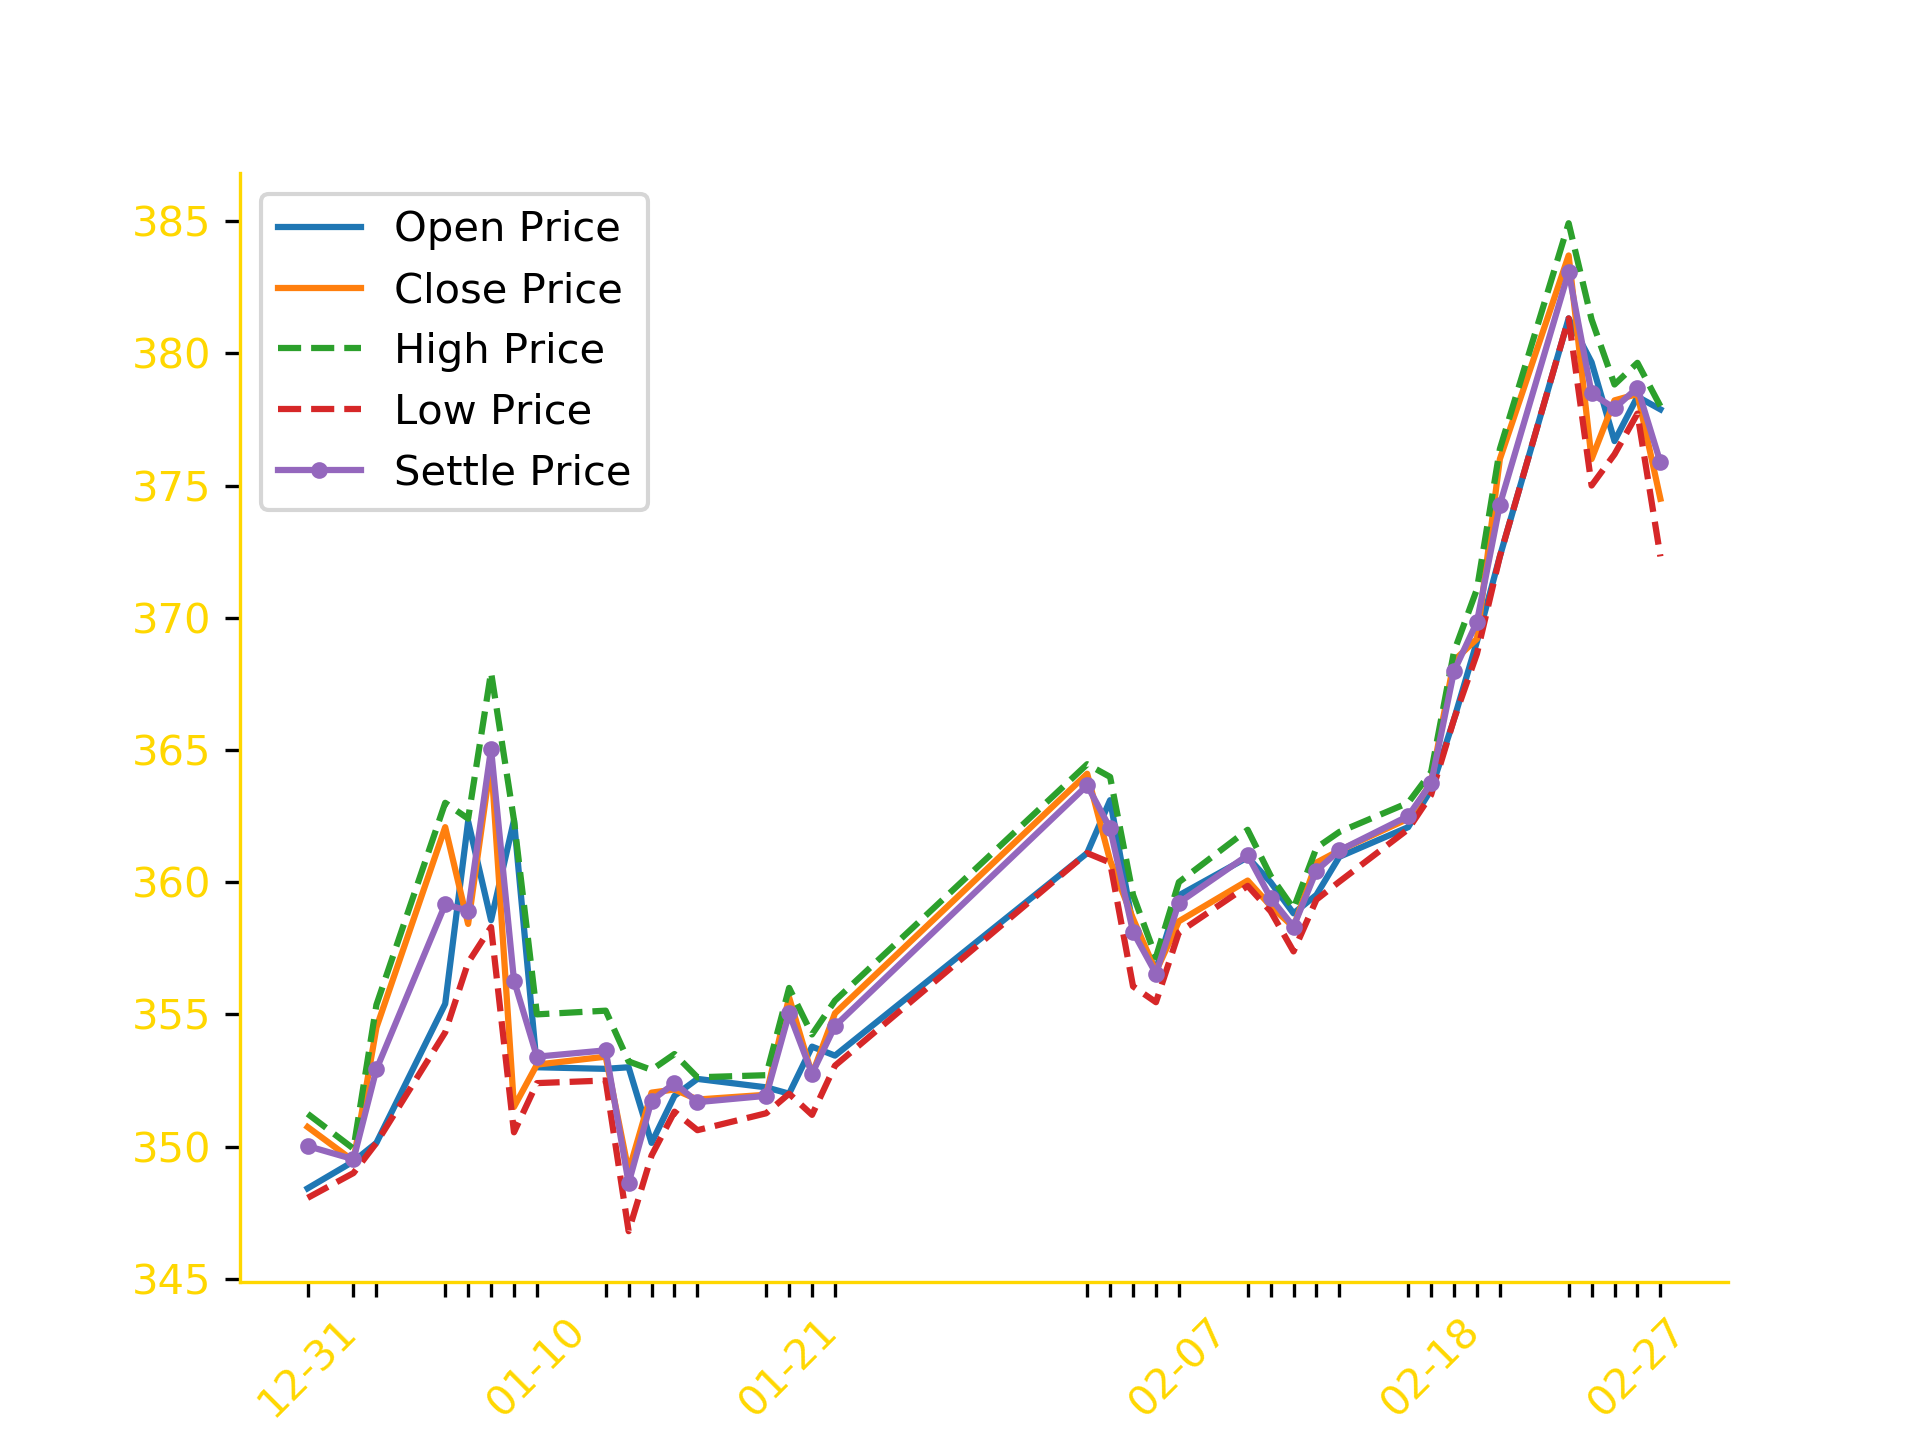
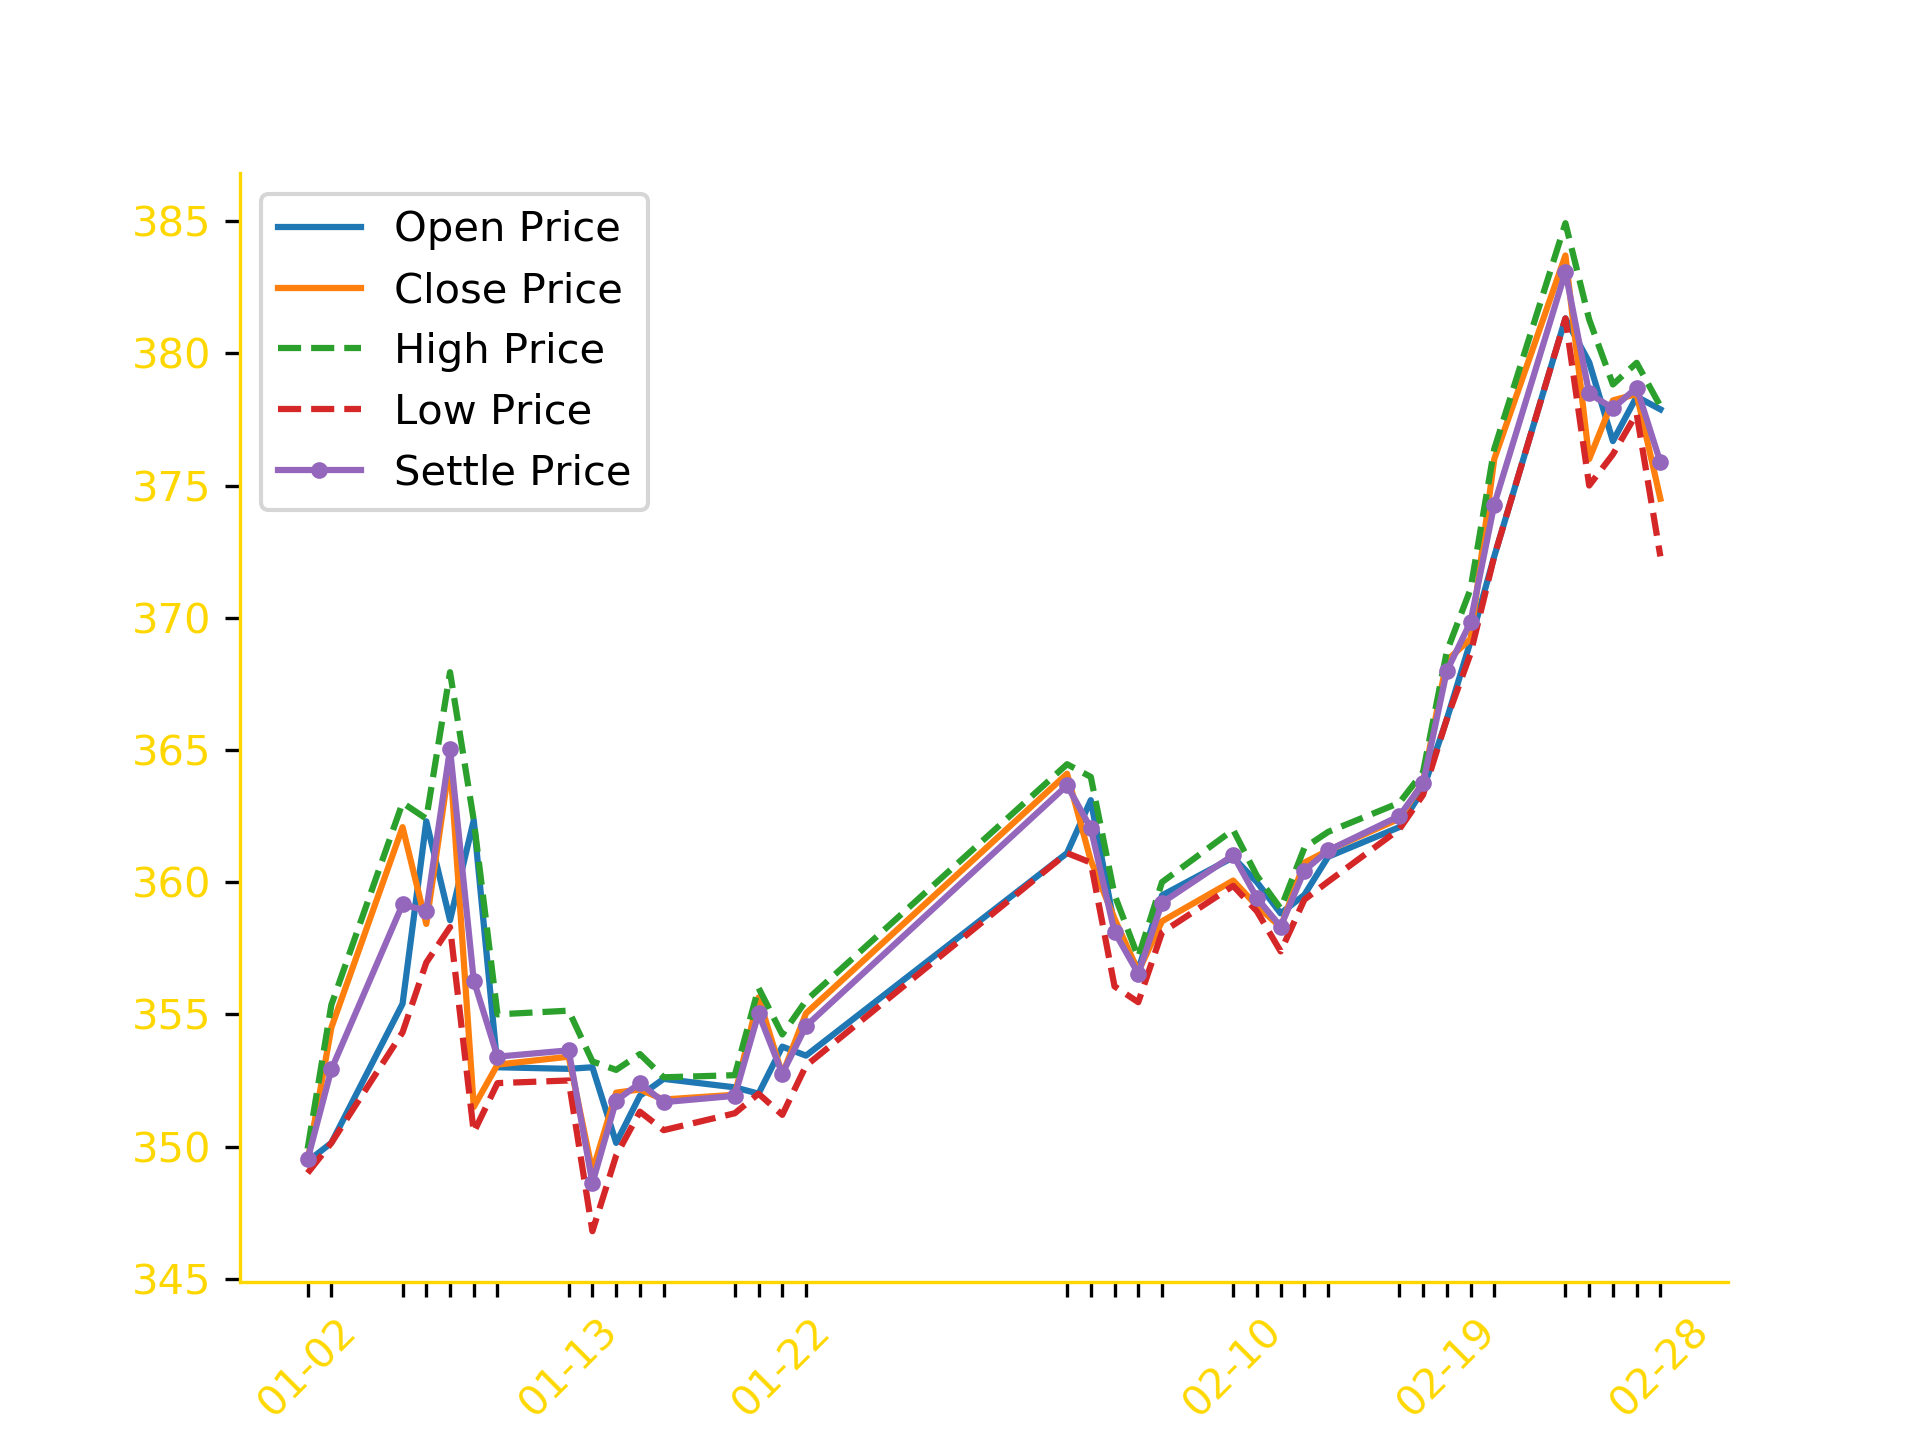
fix date bug

diff --git a/EZproject001/EZsite001/templates/pfas.html b/EZproject001/EZsite001/templates/pfas.html
@@ -59,6 +59,7 @@
             <hr style="border:1px dashed #FFD700;width:70%" align="left">
             <p style="font-size:21px"><b>Today's Gold Prices Here:</b></p>
             <p style="line-height:40px"><i>(Current Date: {{localtime}} - ASIA/SHANGHAI)</i></p>
+            <p style="line-height:40px"><i>(Last Trading Day: {{goldpricedate}} - ASIA/SHANGHAI)</i></p>
             <table class="price" width="370px">
               <tr>
                 <th style="border: 2px outset rgba(255,215,0,0.7);">Type</th>

diff --git a/EZproject001/EZsite001/financialanalysis.py b/EZproject001/EZsite001/financialanalysis.py
@@ -33,10 +33,18 @@ def getcurrentdata():
     try:
         currentdata = golddata.loc[str(currentdate), ['Open', 'Close', 'High', 'Low', 'Settle']].values
     except Exception:
-        currentdate = (getorigintime() - datetime.timedelta(days=1)).strftime('%Y-%m-%d')
-        currentdata = golddata.loc[str(currentdate), ['Open', 'Close', 'High', 'Low', 'Settle']].values
-    finally:
-        return currentdata.tolist()
+        currentdata = []
+        for i in range(1, 10):
+            currentdate = (getorigintime() - datetime.timedelta(days=i)).strftime('%Y-%m-%d')
+            try:
+                currentdata = golddata.loc[str(currentdate), ['Open', 'Close', 'High', 'Low', 'Settle']].values
+            except Exception:
+                pass
+            if len(currentdata) > 0:
+                break
+        return currentdate, currentdata.tolist()
+    else:
+        return currentdate, currentdata.tolist()
 
 
 def plot_price_trend(time, name):

diff --git a/EZproject001/EZsite001/views.py b/EZproject001/EZsite001/views.py
@@ -109,9 +109,9 @@ def pfas(request):
     today_file = pwd + '/static/pfas/img/' + localtime + '.png'
     if not os.path.exists(today_file):
         status = fa.gethistorydata()
-    currentdata = fa.getcurrentdata()
+    goldpricedate, currentdata = fa.getcurrentdata()
     return render(request, 'pfas.html',
-                  {'localtime': localtime, 'currentdata': currentdata})
+                  {'localtime': localtime, 'goldpricedate': goldpricedate, 'currentdata': currentdata})
 
 
 def webDev(request):
